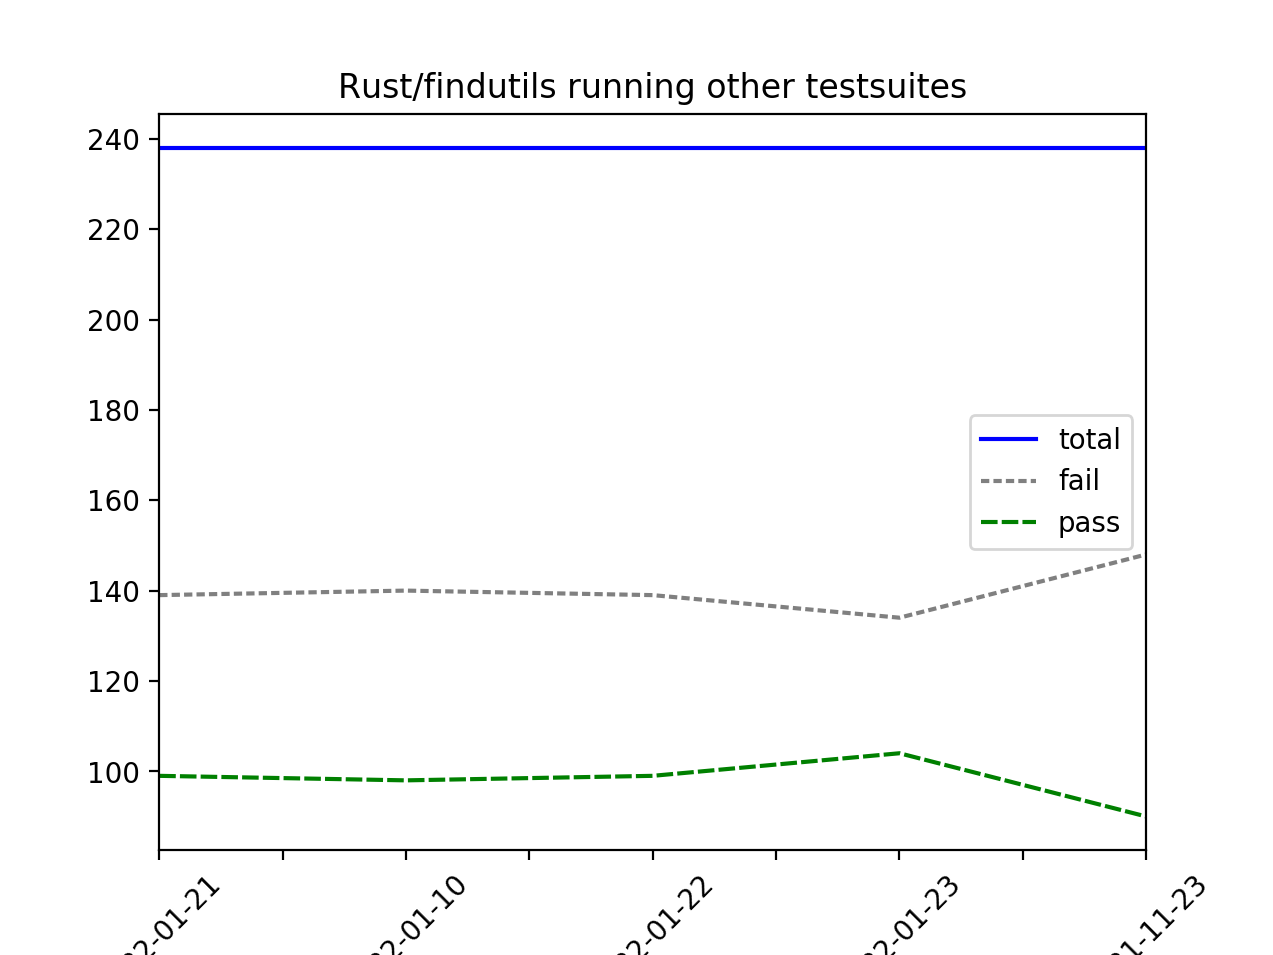
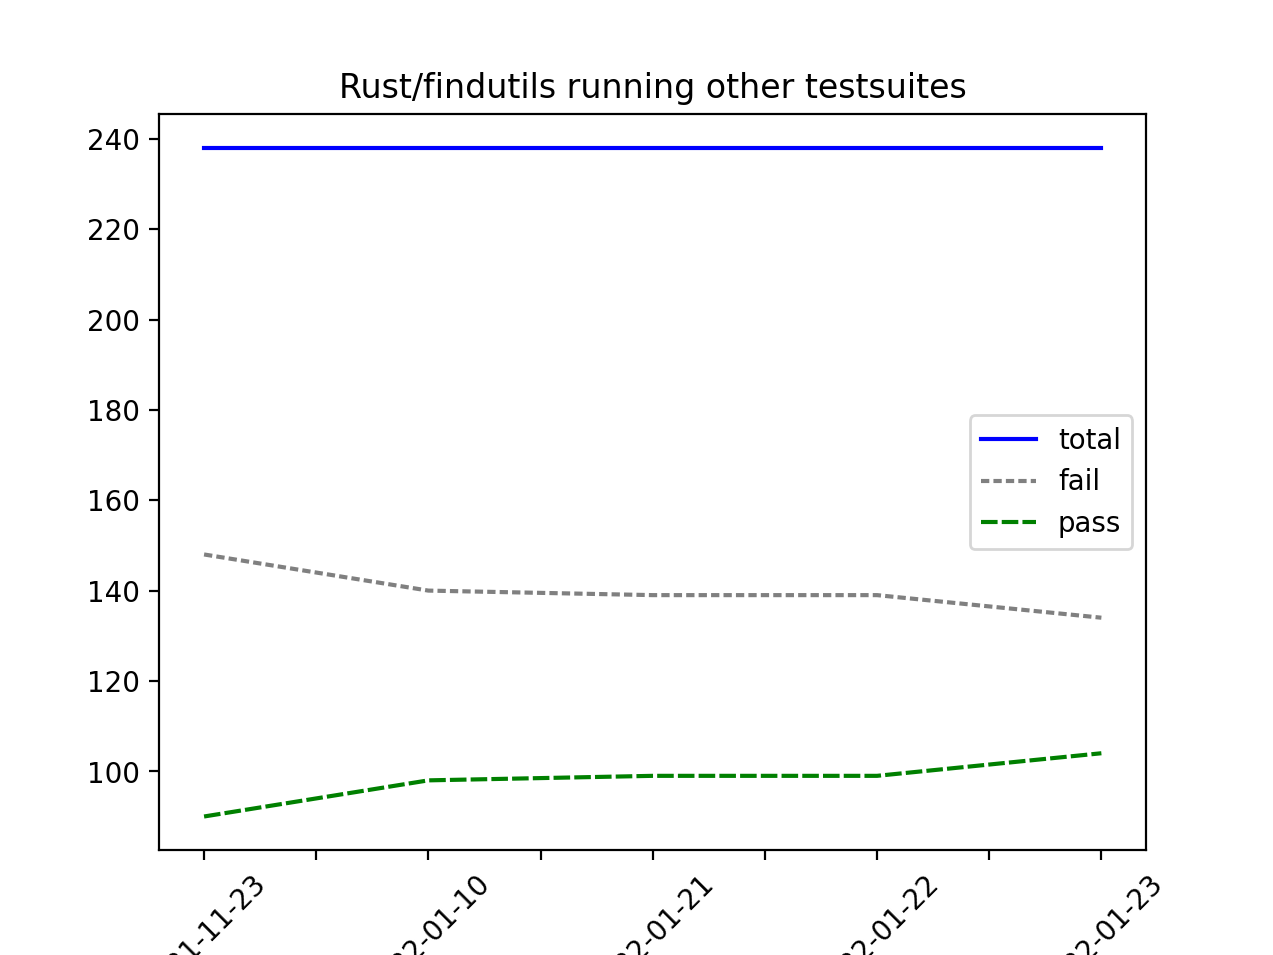
fix graph?

diff --git a/graph.py b/graph.py
@@ -22,7 +22,7 @@ df.index = as_list
 print(df)
 
 ax = plt.gca()
-ax.invert_xaxis()
+
 df.plot(y="total", color="blue", ax=ax)
 df.plot(y="fail", color="gray", ax=ax, dashes=(2, 1))
 df.plot(y="pass", color="green", ax=ax, dashes=(4, 1))
